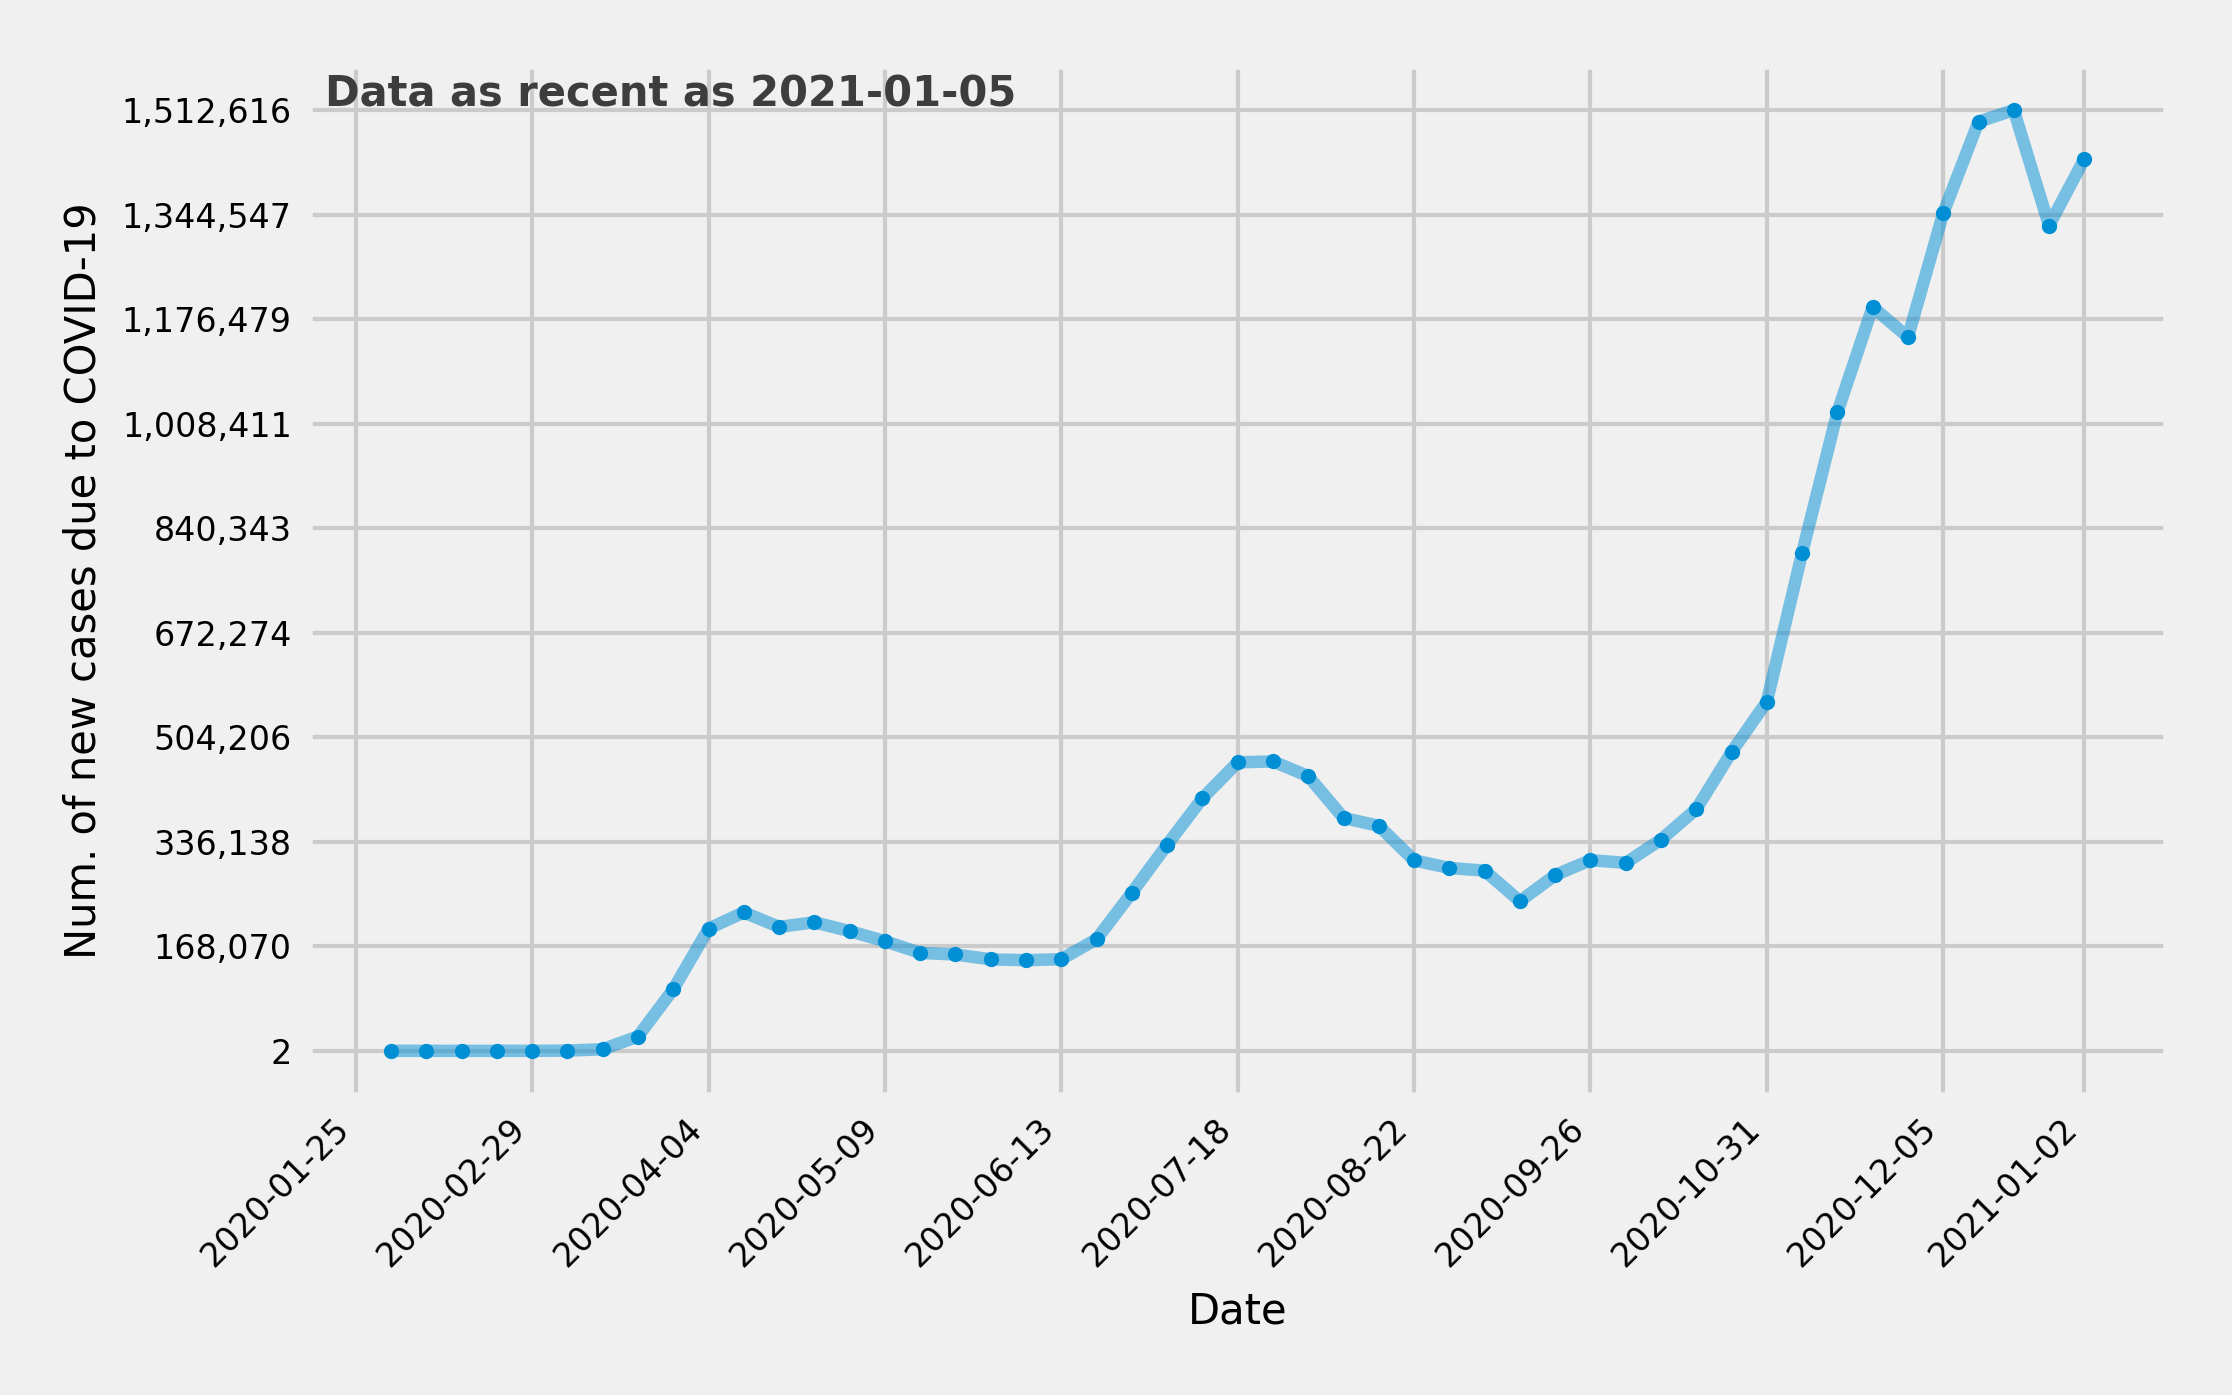
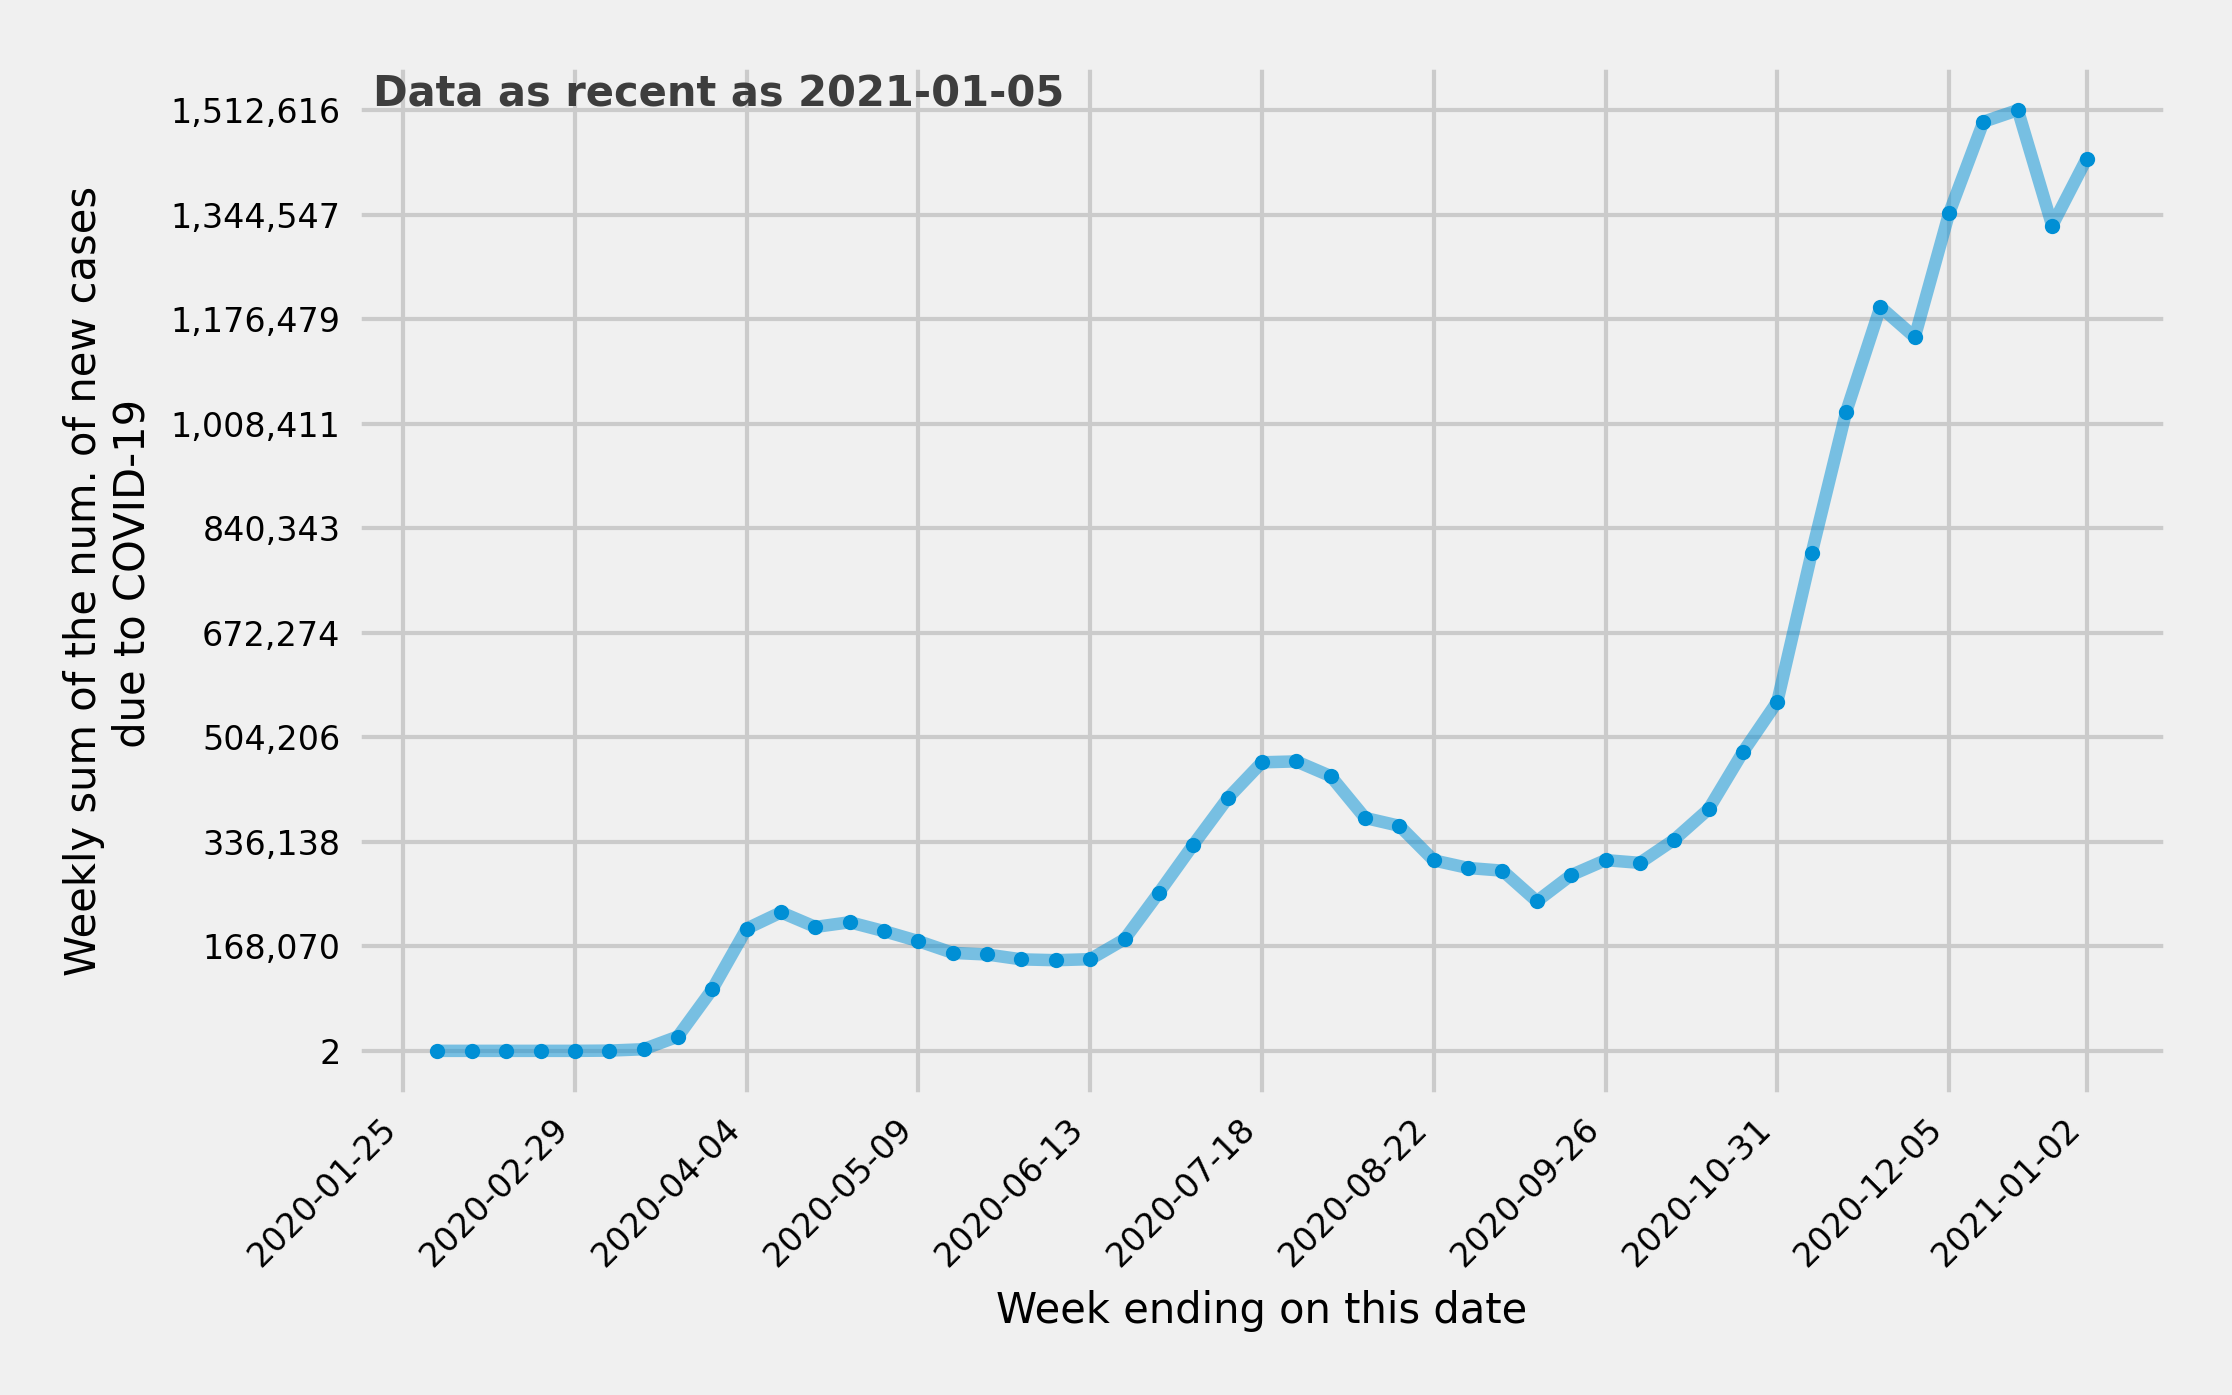
updated axis labels

diff --git a/data/JHUCasesData/pullAndProcessJHUCasesData.py b/data/JHUCasesData/pullAndProcessJHUCasesData.py
@@ -79,8 +79,8 @@ if __name__ == "__main__":
     
     ax.tick_params(which="both",labelsize=8)
 
-    ax.set_xlabel("Date", fontsize=10)
-    ax.set_ylabel("Num. of new cases due to COVID-19", fontsize=10)
+    ax.set_xlabel("Week ending on this date", fontsize=10)
+    ax.set_ylabel("Weekly sum of the num. of new cases\n due to COVID-19", fontsize=10)
 
     
     utc = datetime.utcnow().date()
